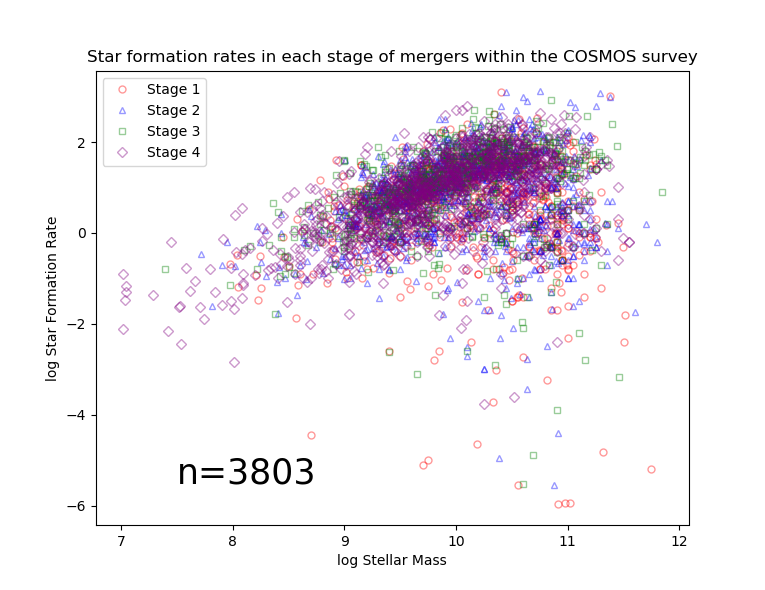
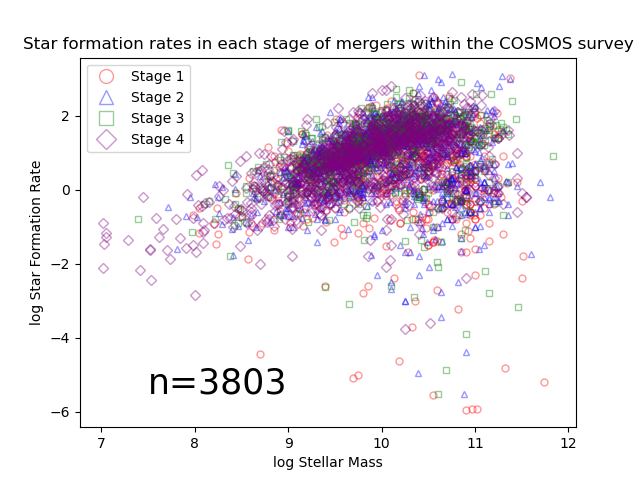
Cleaned up plots

diff --git a/plots/plotting_code/main_plots/sfr_mass.py b/plots/plotting_code/main_plots/sfr_mass.py
@@ -59,7 +59,7 @@ def generate_plot(data, n):
     plt.xlabel('log Stellar Mass')
     plt.ylabel('log Star Formation Rate')
     plt.text(7.5, -5.5, f'n={n}', fontsize=25)
-    plt.legend()
+    plt.legend(markerscale=2)
     plt.show()
 
 def generate_plot_z_limit(data):
@@ -72,25 +72,25 @@ def generate_plot_z_limit(data):
     plt.plot(data[0][0], data[0][1], linestyle='', ms=ms, marker=symbols[0], alpha=0.4, fillstyle='none' ,c=colours[0], label=f'Stage {1}\nn={len(data[0][0])}')
     plt.ylabel(r'log SFR [$M_{\bigodot} yr^{-1}]$')
     plt.tick_params('x', labelbottom=False)
-    plt.legend(loc='lower left')
+    plt.legend(loc='lower left', markerscale=2)
 
     ax2 = plt.subplot(222, sharex=ax1, sharey=ax1)
     plt.plot(data[1][0], data[1][1], ms=ms, linestyle='', marker=symbols[1], alpha=0.4, fillstyle='none' ,c=colours[1], label=f'Stage {2}\nn={len(data[1][0])}')
     plt.tick_params('y', labelleft=False)
     plt.tick_params('x', labelbottom=False)
-    plt.legend(loc='lower left')
+    plt.legend(loc='lower left', markerscale=2)
 
     ax3 = plt.subplot(223, sharex=ax1, sharey=ax1)
     plt.plot(data[2][0], data[2][1], ms=ms, linestyle='', marker=symbols[2], alpha=0.4, fillstyle='none' ,c=colours[2], label=f'Stage {3}\nn={len(data[2][0])}')
     plt.xlabel(r'log $M_{\bigstar}$ [$M_{\bigodot}$]')
     plt.ylabel(r'log SFR [$M_{\bigodot} yr^{-1}]$')
-    plt.legend(loc='lower left')
+    plt.legend(loc='lower left', markerscale=2)
 
     ax4 = plt.subplot(224, sharex=ax1, sharey=ax1)
     plt.plot(data[3][0], data[3][1], ms=ms, linestyle='', marker=symbols[3], alpha=0.4, fillstyle='none' ,c=colours[3], label=f'Stage {4}\nn={len(data[3][0])}')
     plt.xlabel(r'log $M_{\bigstar}$ [$M_{\bigodot}$]')
     plt.tick_params('y', labelleft=False)
-    plt.legend(loc='lower left')
+    plt.legend(loc='lower left', markerscale=2)
 
     plt.suptitle('Star formation rates of primary galaxy against stellar mass in each stage of mergers\n within the COSMOS survey for redshift volume 0<z<1.5')
     plt.ylim(-6.5, 3.5)
@@ -192,12 +192,13 @@ num = len(raw_data)
 
 plot_data = generate_variables(raw_data)  # formats data so it's useful for the plotting function
 
-# generate_plot(plot_data, num)  # plots with all stages on same graph
+generate_plot(plot_data, num)  # plots with all stages on same graph
 
 filtered_data = generate_variables(raw_data, isFiltering = True, z_lim=1.5)  # redefines plot_data to have the filtered values
+
 # generate_plot_z_limit(filtered_data)  # generates 4 subplots, one for each stage
 
-generate_separate(filtered_data)
+# generate_separate(filtered_data)
 
 
 

diff --git a/plots/plotting_code/main_plots/abs_mag_z.py b/plots/plotting_code/main_plots/abs_mag_z.py
@@ -110,14 +110,16 @@ def generate_plot(data):
     z_upp_err = [i[2] - i[0] for i in data]
     z_err = [z_low_err, z_upp_err]
 
-    plt.scatter(z_pdf, i_mag, c='red',s=1, label='i-mag')
-    plt.scatter(z_pdf, z_mag, c='blue',s=1, label='z-mag')
-    plt.scatter(z_pdf, k_mag, c='green',s=1, label='k-mag')
+    alpha = 0.4
+    s = 1
+    plt.scatter(z_pdf, i_mag, alpha=alpha, c='red',s=s, label='i-mag')
+    plt.scatter(z_pdf, z_mag, alpha=alpha, c='blue',s=s, label='z-mag')
+    plt.scatter(z_pdf, k_mag, alpha=alpha, c='green',s=s, label='k-mag')
     plt.title(f'Absolute magnitudes of primary galaxy in selected mergers \nin COSMOS against redshift')
-    plt.xlabel('Redshift')
+    plt.xlabel('Redshift, z')
     plt.ylabel('Absolute magnitude')
     plt.text(3, -12, f'n={n}', fontsize=25)
-    plt.legend()
+    plt.legend(markerscale=10)
     ax = plt.gca()
     ax.invert_yaxis()
     
@@ -139,10 +141,10 @@ def generate_i_band(data):
     z_upp_err = [i[2] - i[0] for i in data]
     z_err = [z_low_err, z_upp_err]
 
-    plt.errorbar(z_pdf, i_mag, alpha=0.4, c='red',fmt='.', markersize=3, ecolor='black', elinewidth=1,label='i-mag')
+    plt.errorbar(z_pdf, i_mag, xerr=z_err, alpha=0.4, c='red',fmt='.', markersize=3, ecolor='black', elinewidth=1,label='i-mag')
     plt.plot([1.5] * (-10 - -27), [-10 - i for i in range(0, 17)], linestyle='--', c='black')
     plt.title(f'Absolute magnitudes of primary galaxy in selected mergers \nin COSMOS against redshift')
-    plt.xlabel('Redshift')
+    plt.xlabel('Redshift, z')
     plt.ylabel('Absolute magnitude')
     plt.ylim(-26, -10)
     plt.text(3, -12, f'n={n}', fontsize=25)
@@ -155,5 +157,5 @@ def generate_i_band(data):
 mydata = data_gather()
 # print(len(mydata))
 # generate_subplots(mydata)
-# generate_plot(mydata)
-generate_i_band(mydata)
+generate_plot(mydata)
+# generate_i_band(mydata)
